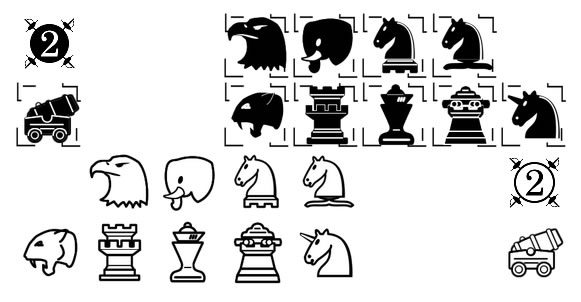
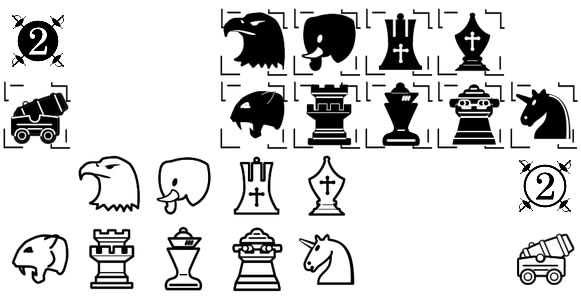
updated musketeer resources

diff --git a/src/games/chessbase/musketeer-view.js b/src/games/chessbase/musketeer-view.js
@@ -400,6 +400,18 @@
 						clipx : 0,
 					}
 				},
+				"fr-marshall":{			
+					"2d": {
+						file: this.mViewOptions.fullPath + "/res/musketeer/wikipedia-fairy-musketeer-all-sprites.png",
+						clipx : 4000,
+					}
+				},
+				"fr-cardinal":{			
+					"2d": {
+						file: this.mViewOptions.fullPath + "/res/musketeer/wikipedia-fairy-musketeer-all-sprites.png",
+						clipx : 3900,
+					}
+				},
 				"default": {
 					"3d": {
 						scale: [.5,.5,.5],
